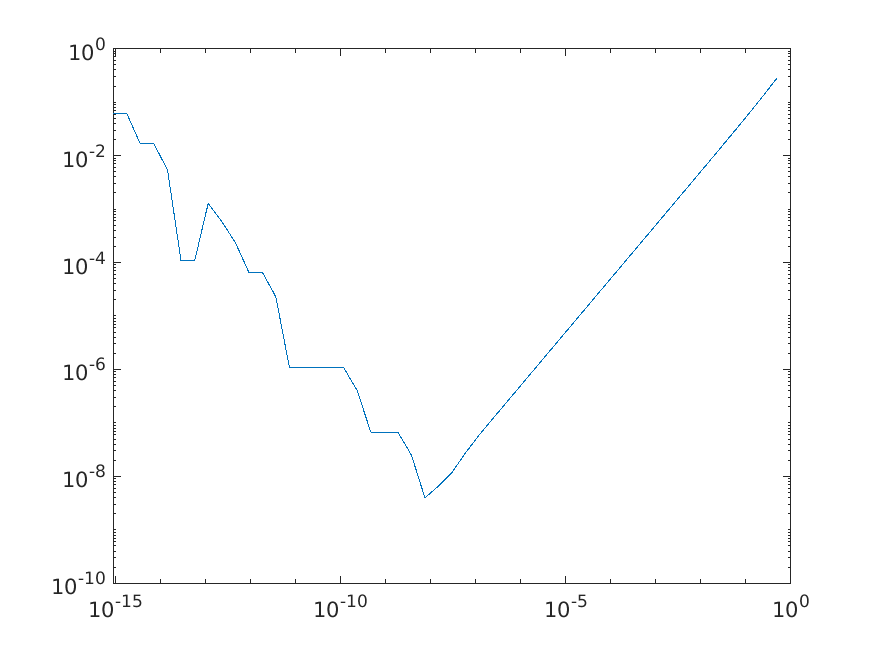
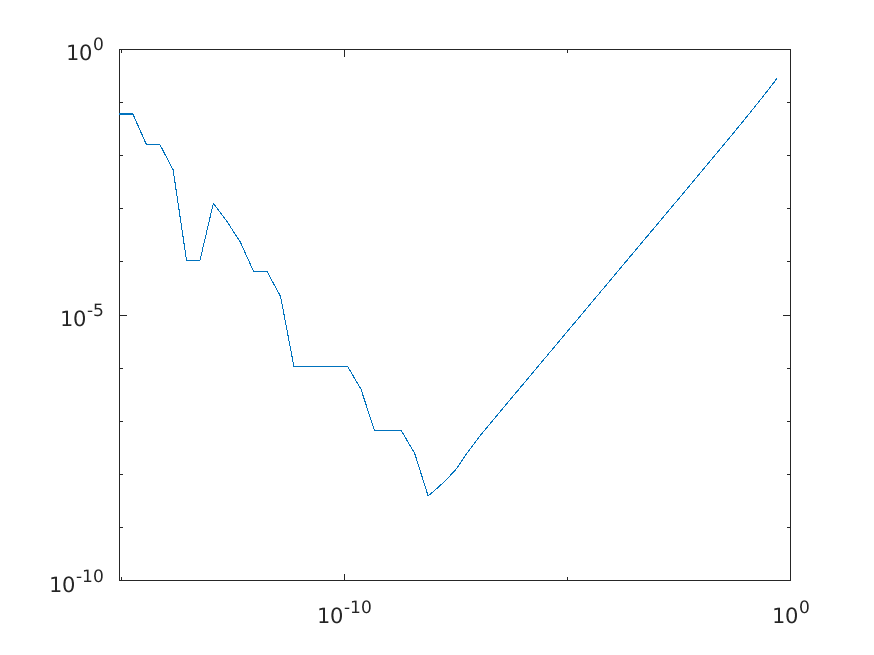
change in learn: remove catastrophic cancellation and add esercitazione 2

diff --git a/learn_matlab/lab02/lab02_es6.m b/learn_matlab/lab02/lab02_es6.m
@@ -1,0 +1,33 @@
+M = [
+    1 2 3 4;
+    -1 0 4 1;
+    3 5 1 0;
+    2 -1 0 1;
+    1 1 -1 1;
+    2 -1 0 3
+];
+b = (1 : 6)';
+% dobbiamo valuta il rango visto che è sovradeterminato
+rank(M);             % M ha rango massimo
+
+[m, n] = size(M);
+[Q, R] = qr(M);
+
+R_tilde = R(1 : n, 1: n);
+
+c = Q' * b;
+
+c1 = c(1: n);
+c2 = c(n + 1 : m);
+
+x = R_tilde \ c1
+
+x_ref = M \ b;          % \ risolve anche i sistemi sovradeterminati con QR
+
+distance = norm(x - x_ref, inf) / norm(x_ref, inf)      % la distanza relativa è dell'ordine della precisione di macchina => equivalenti
+
+x_n = (M' * M) \ (M' * b);      % sistema delle equazioni normali --> non si usa per problemi grandi per via del condizionamento
+distance_n = norm(x_n - x_ref, inf) / norm(x_ref, inf)
+
+res = norm((M * x) - b)             % oppure calcolando la norma di c2  --> occhio che però c2 e il res sono diversi hanno solo la stessa norma 2
+norm(c2)

diff --git a/learn_matlab/lab02/lab02_es1.m b/learn_matlab/lab02/lab02_es1.m
@@ -1,0 +1,37 @@
+A = rand(5);
+
+[L, U] = elleu(A);
+
+% controllo che la funzione sia corretta
+
+norm((L * U) - A) / norm(A, inf);    % < della precisione di macchina => uguali
+
+n = 100;
+A = zeros(n);
+
+for i = 1 : n
+    for j = 1 : n
+        A(i, j) = max(i, j);
+    end
+end
+
+% Ax = b --> b = A * x   -->    b = A * ones(n, 1);
+b = A * ones(n, 1); % b = sum(A, 2)
+
+[L, U] = elleu(A);
+
+% Ax = b  -->  LUx = b
+y = L \ b;
+x = U \ y;
+
+% risoluzione con LU di MATLAB c'è il pivoting
+[L, U, P] = lu(A);
+
+% Ax = b --> PAx = Pb --> LUx = Pb
+y = L \ (P * b);        % \ ha priorità su tutte
+x_ref = U \ y;
+
+distance = norm(x - x_ref, inf)                % distanza relativa perchè la norma della soluzione esatta è pari a 1
+
+err = norm(x - ones(n, 1), inf)
+err_ref = norm(x_ref - ones(n, 1), inf)

diff --git a/learn_matlab/funzioni.m b/learn_matlab/funzioni.m
@@ -1,0 +1,38 @@
+% lo scope delle function è riservato
+
+%{
+function [output1, output2, ...] = name(input1, input2, ...)    % interfaccia della funzione
+
+end
+%}
+
+
+% fattorizzazione LU
+function [L, U] = elleu(A)
+    [m, n] = size(A);
+    
+    if m ~= n
+        error("Matrix must be square");
+    end
+
+    for k = 1 : n - 1
+        for i = k + 1 : n
+            % verifica che A(k, k) sia non nullo
+            A(i, k) = A(i, k) / A(k, k);
+            A(i, k + 1 : n) = A(i, k + 1 : n) - A(i, k) * A(k, k + 1 : n);
+        end
+    end
+    U = triu(A);
+    L = eye(n) + tril(A, -1);
+end
+
+
+a = [
+    2 -1 1 -2;
+    0 2 0 -1;
+    1 0 -2 1;
+    0 2 1 1
+];
+
+% se salviamo il file con lo stesso nome della funzione la possiamo
+% chiamare ovunque

diff --git a/learn_matlab/lab01_es1/lab01_es1.m b/learn_matlab/lab01_es1/lab01_es1.m
@@ -15,3 +15,19 @@ relativ_error = abs(r_val - cos(x)) / abs(cos(x));      % errore rispetto alla d
 
 loglog(h, relativ_error)
 saveas(gcf, "relative_error.png");              % c'è cancellazione numerica dopo 10^-8
+
+% dobbiamo eliminare la cancellazione numerica
+% sin(a) - sin(b) = 2 * sin((a - b) / 2) * cos((a + b) / 2)
+% => 2 * sin(h / 2) * cos(x + h / 2)
+
+r_mod = @(h) (2 .* sin(h / 2) .* cos(x + h / 2)) ./ h;
+
+r_val_mod = r_mod(h);
+
+err_rel_mod = abs(r_val_mod - cos(x)) / abs(cos(x));
+
+hold on
+loglog(h, err_rel_mod);
+saveas(gcf, "relative_error_without_numerici_canc.png");
+
+% il minimo è 10^-8 non è casuale per la derivata prima è fisso

diff --git a/learn_matlab/lab02/elleu.m b/learn_matlab/lab02/elleu.m
@@ -1,0 +1,18 @@
+% fattorizzazione LU
+function [L, U] = elleu(A)
+    [m, n] = size(A);
+    
+    if m ~= n
+        error("Matrix must be square");
+    end
+
+    for k = 1 : n - 1
+        for i = k + 1 : n
+            % verifica che A(k, k) sia non nullo
+            A(i, k) = A(i, k) / A(k, k);
+            A(i, k + 1 : n) = A(i, k + 1 : n) - A(i, k) * A(k, k + 1 : n);
+        end
+    end
+    U = triu(A);
+    L = eye(n) + tril(A, -1);
+end
